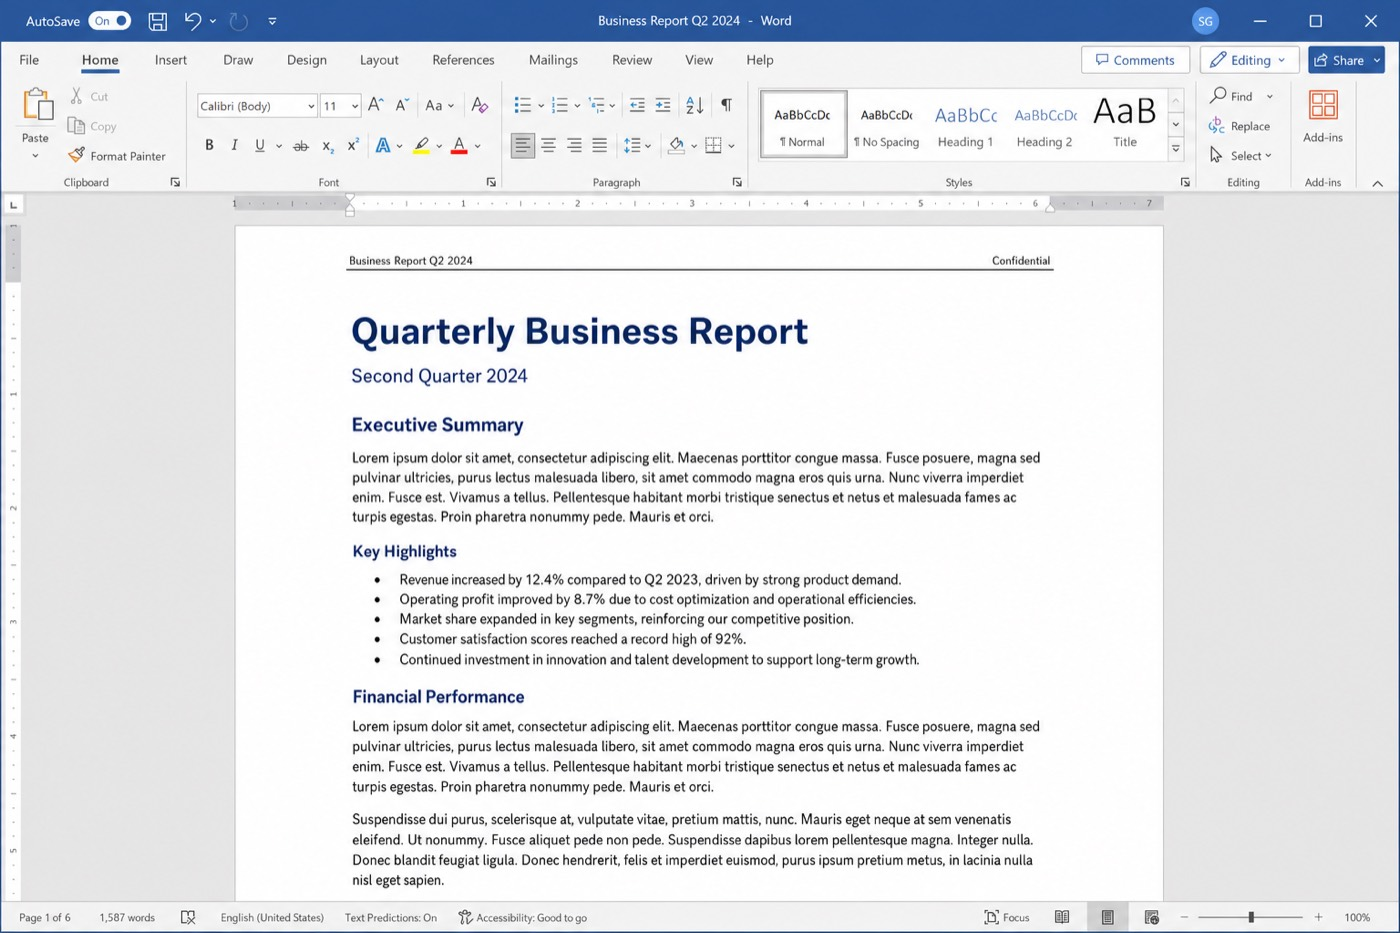
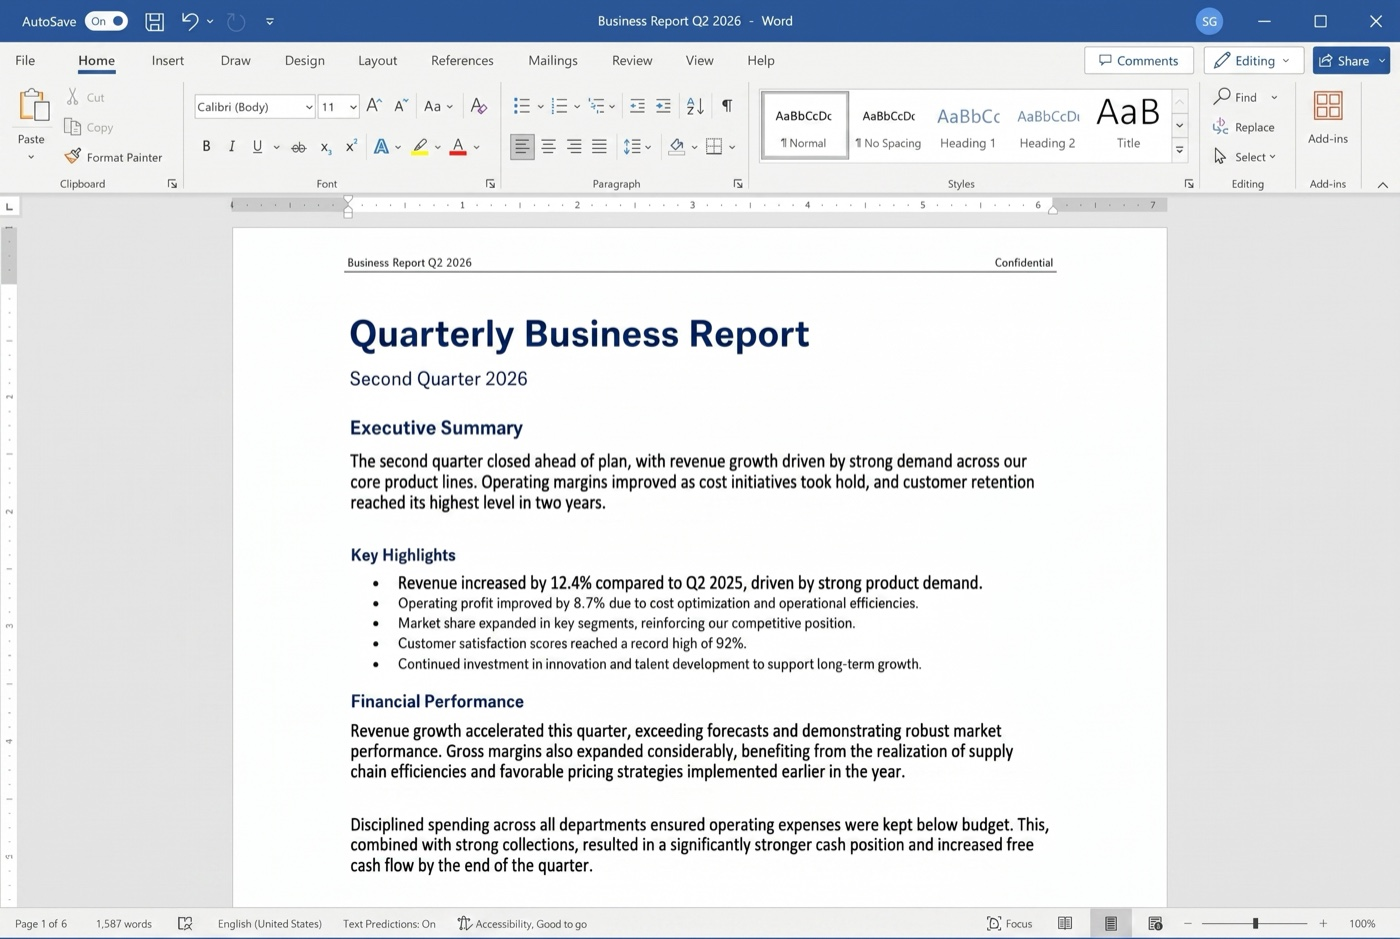
Soften scroll reveals, size hero CTA to content, fix doc mock copy

diff --git a/src/app/globals.css b/src/app/globals.css
@@ -57,7 +57,7 @@ body {
   background: var(--page-background);
   color: var(--page-foreground);
   font-family: var(--font-sans), "Manrope", system-ui, sans-serif;
-  font-weight: 300;
+  font-weight: 400;
   -webkit-font-smoothing: antialiased;
   -moz-osx-font-smoothing: grayscale;
 }
@@ -1187,13 +1187,13 @@ html[data-embedded="true"] .site-header {
 
 .has-reveal [data-reveal] {
   opacity: 0;
-  transform: translate3d(0, 32px, 0) scale(0.985);
-  filter: blur(16px) saturate(0.9);
+  transform: translate3d(0, 18px, 0) scale(0.992);
+  filter: blur(6px);
   will-change: opacity, transform, filter;
   transition:
-    opacity 1200ms cubic-bezier(0.22, 1, 0.36, 1),
-    transform 1300ms cubic-bezier(0.22, 1, 0.36, 1),
-    filter 1100ms cubic-bezier(0.22, 1, 0.36, 1);
+    opacity 620ms cubic-bezier(0.22, 1, 0.36, 1),
+    transform 700ms cubic-bezier(0.22, 1, 0.36, 1),
+    filter 560ms cubic-bezier(0.22, 1, 0.36, 1);
 }
 
 .has-reveal [data-reveal][data-revealed] {
@@ -1207,14 +1207,14 @@ html[data-embedded="true"] .site-header {
    `--reveal-index` so the order is intentional, not source-order. */
 .has-reveal [data-reveal] [data-reveal-child] {
   opacity: 0;
-  transform: translate3d(0, 22px, 0);
-  filter: blur(10px);
+  transform: translate3d(0, 14px, 0);
+  filter: blur(4px);
   will-change: opacity, transform, filter;
   transition:
-    opacity 950ms cubic-bezier(0.22, 1, 0.36, 1),
-    transform 1050ms cubic-bezier(0.22, 1, 0.36, 1),
-    filter 900ms cubic-bezier(0.22, 1, 0.36, 1);
-  transition-delay: calc(160ms + var(--reveal-index, 0) * 80ms);
+    opacity 540ms cubic-bezier(0.22, 1, 0.36, 1),
+    transform 620ms cubic-bezier(0.22, 1, 0.36, 1),
+    filter 480ms cubic-bezier(0.22, 1, 0.36, 1);
+  transition-delay: calc(110ms + var(--reveal-index, 0) * 60ms);
 }
 
 .has-reveal [data-reveal][data-revealed] [data-reveal-child] {
@@ -1241,16 +1241,14 @@ html[data-embedded="true"] .site-header {
 }
 
 /* Low-power devices keep the reveal motion but drop the blur — animating
-   `filter: blur()` from 16px → 0 over a second per section is the single
-   most expensive part of the scroll, and the cause of the lag building up as
-   you scroll toward the lower (phone) sections. Opacity + transform stay on
-   the compositor and remain smooth. */
+   `filter: blur()` is the single most expensive part of the scroll.
+   Opacity + transform stay on the compositor and remain smooth. */
 html[data-low-power] .has-reveal [data-reveal],
 html[data-low-power] .has-reveal [data-reveal] [data-reveal-child] {
   filter: none !important;
   transition:
-    opacity 700ms cubic-bezier(0.22, 1, 0.36, 1),
-    transform 800ms cubic-bezier(0.22, 1, 0.36, 1) !important;
+    opacity 560ms cubic-bezier(0.22, 1, 0.36, 1),
+    transform 640ms cubic-bezier(0.22, 1, 0.36, 1) !important;
 }
 
 @keyframes breathing {

diff --git a/src/components/home-hero.module.css b/src/components/home-hero.module.css
@@ -143,16 +143,13 @@
 
 .cta {
   display: flex;
-  width: 36rem;
-  max-width: 100%;
-  margin-top: clamp(1.4rem, 3vh, 2rem);
+  margin-top: clamp(1.6rem, 3.2vh, 2.3rem);
 }
 
 .cta :global(.button--primary) {
-  width: 100%;
-  padding-block: clamp(0.85rem, 1.4vw, 1.1rem);
-  padding-inline: clamp(2.4rem, 5vw, 3.4rem);
-  font-size: clamp(1.2rem, 1.5vw, 1.45rem);
+  padding-block: clamp(0.7rem, 1.1vw, 0.85rem);
+  padding-inline: clamp(1.7rem, 2.6vw, 2.3rem);
+  font-size: clamp(1.2rem, 1.4vw, 1.35rem);
   border-radius: var(--page-radius, 0.45rem);
 }
 